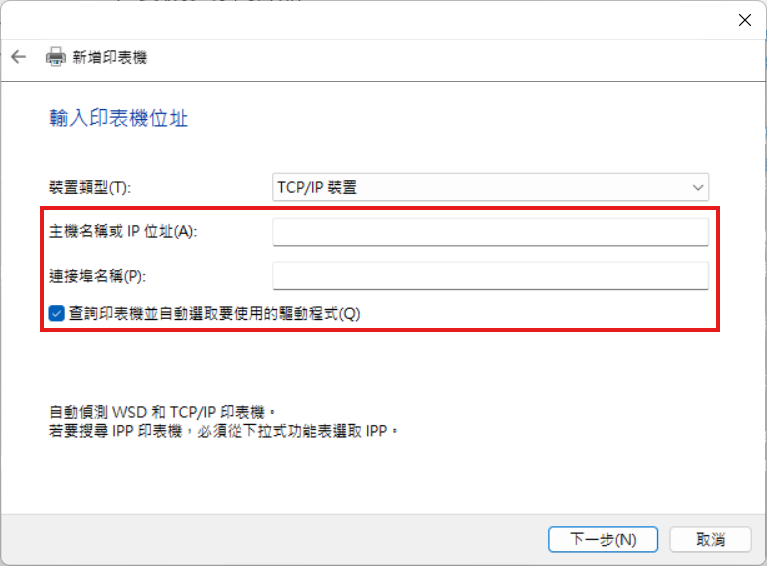
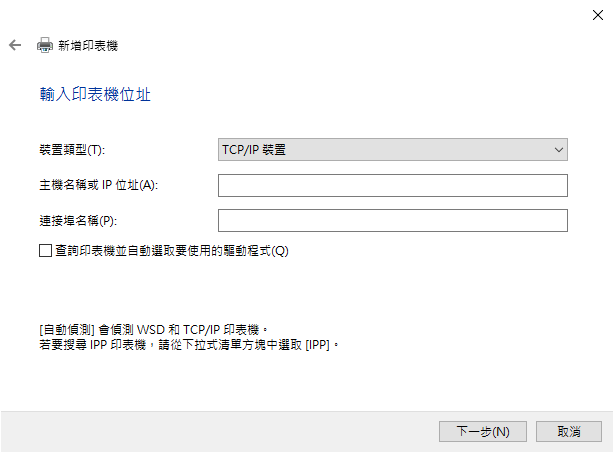
Update add printers steps in newcomer guide

diff --git a/general/guides-4-newcomer.md b/general/guides-4-newcomer.md
@@ -81,18 +81,18 @@ ___
 
 實驗室有兩臺印表機可以用，可是兩臺都只能列印黑白文件QQ。
 
-1.  `開始`>`設定`>`藍牙與裝置`>`印表機與掃描器`，點`新增印表機或掃描器`。<br>![](/img/guides-4-newcomer/Printer-1.png)
+1.  `開始`>`設定`>`裝置`>`印表機與掃描器`，點`新增印表機或掃描器`。<br>![](/img/guides-4-newcomer/Printer-1.png)
 
-2.  讓他轉一下，等待`我想要的印表機未列出`出現，接著點`手動新增裝置`。不從這邊找我們實驗室的印表機，主要是因為這邊會找到北科所有的網路印表機，基於安全考量，我們實驗室的兩台印表機架於路由器的區網內，因此不會出現在這裡。~~全北科的印表機都列在這裡了。~~<br>![](/img/guides-4-newcomer/Printer-2.png)
+2.  讓他轉一下，接著點`我想要的印表機未列出`。不從這邊找我們實驗室的印表機，主要是因為這邊會找到北科所有的網路印表機，基於安全考量，我們實驗室的兩台印表機架於路由器的區網內，因此不會出現在這裡。~~全北科的印表機都列在這裡了。~~<br>![](/img/guides-4-newcomer/Printer-2.png)
 
 3.  選第三個`使用 IP 位址或主機名稱新增印表機`，按`下一步`。<br>![](/img/guides-4-newcomer/Printer-3.png)
 
-4.  選`TCP/IP 裝置`，輸入`主機名稱或 IP 位址` 和 `連接埠名稱`。勾選`查詢印表機並自動選取要用的驅動程式`，接著按`下一步`。<br>![](/img/guides-4-newcomer/Printer-4.png)
+4.  選`TCP/IP 裝置`，輸入`主機名稱或 IP 位址` 和 `連接埠名稱`。取消勾選`查詢印表機並自動選取要用的驅動程式`，接著按`下一步`。<br>![](/img/guides-4-newcomer/Printer-4.png)
     + M601
-        + 主機名稱或 IP 位址：140.124.182.172
+        + 主機名稱或 IP 位址：140.124.182.166
         + 連接埠名稱：M601
     + M608
-        + 主機名稱或 IP 位址：140.124.182.172
+        + 主機名稱或 IP 位址：140.124.182.166
         + 連接埠名稱：M608
 
 5.  接著讓他跑一下。<br>![](/img/guides-4-newcomer/Printer-5.png)
@@ -104,24 +104,26 @@ ___
         + M601：601
         + M608：608
 
-8.  接著讓他跑一下。<br>![](/img/guides-4-newcomer/Printer-8.png)
+8.  當出現`安裝印表機驅動程式`畫面時，因為 Windows 預設並沒有載入`HP`製造商，所以需要點`Windows Update`。<br>![](/img/guides-4-newcomer/Printer-8.png)
 
-9.  當出現`安裝印表機驅動程式`畫面時，選擇`製造商` 和 `印表機`。以M601為例，接著按`下一步`。<br>![](/img/guides-4-newcomer/Printer-9.png)
+9. 讓他更新印表機清單，大約需要5分鐘時間...<br>![](/img/guides-4-newcomer/Printer-9.png)
+
+10. 當`安裝印表機驅動程式`畫面再次出現時，選擇`製造商` 和 `印表機`。以M601為例，接著按`下一步`。<br>![](/img/guides-4-newcomer/Printer-10.png)
     + 製造商：HP
     + 印表機
-        + M601：HP LaserJet Enterprise 600 M601 M602 M603 PCL6 Class Driver
+        + M601：HP LaserJet Enterprise 600 M601 M602 M603 PCL6
         + M608：HP LaserJet M607 M608 M609 PCL-6 (V4)
-
-10. 若出現這個畫面，選任意選項皆可，接著按`下一步`。<br>![](/img/guides-4-newcomer/Printer-10.png)
 
 11. 輸入`印表機名稱`，以M601為例，接著按`下一步`。<br>![](/img/guides-4-newcomer/Printer-11.png)
 * 建議更改預設印表機名稱，以後好辨認。例如：
     + M601：HP LaserJet M601
     + M608：HP LaserJet M608
 
-12. 選`不共用印表機`，按`下一步`。<br>![](/img/guides-4-newcomer/Printer-12.png)
+12.  接著讓他跑一下。<br>![](/img/guides-4-newcomer/Printer-12.png)
 
-13.  接著就能使用囉。可以按一下`列印測試頁`。測試是不是真的可以印出東西。<br>![](/img/guides-4-newcomer/Printer-13.png)
+13. 選`不共用印表機`，按`下一步`。<br>![](/img/guides-4-newcomer/Printer-13.png)
+
+14.  接著就能使用囉。可以按一下`列印測試頁`。測試是不是真的可以印出東西。<br>![](/img/guides-4-newcomer/Printer-13.png)
 
 ### 注意事項
 
